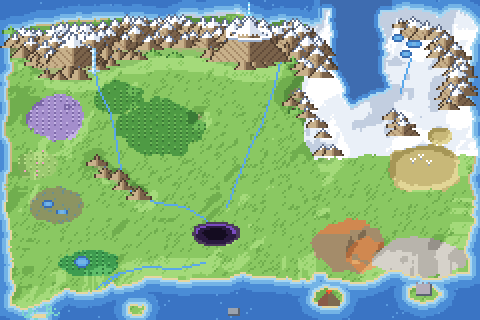
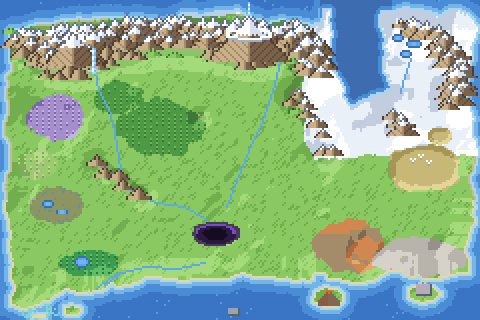
fix: mapa regional con el Islote Lumbre en el sector oeste del Mar del Sur, frente a Caleta (como CAMPANA §1.2 y el mapa de B13)

Changed region(s): [[0.25, 0.9062, 0.3125, 1.0], [0.125, 0.9375, 0.1875, 1.0]]

diff --git a/game/src/ui/logic/regionMapData.js b/game/src/ui/logic/regionMapData.js
@@ -49,7 +49,7 @@ const TERRAIN = [
   '~..fffff..............:::::::~', // 16 Ruta 14 · Ruta 7 · Ciudad Estrato · Dunas de Ceniza
   '~........~~...~~~~.~~..~~~:~~~', // 17 Ruta 15 · Ciudad Nexo · costa sur
   '~...~~~~~~~~~~~~~~~~v~~~~~i~~~', // 18 Caleta Sonda · Mar del Sur · Volcán Tizón · Bastión Axis
-  '~~r~~~~~i~~~~~i~~~~~~~~~~~~~~~', // 19 Arrecife del Eco (P7) · Islote Lumbre · Estación Talasa
+  '~~r~i~~~~~~~~~i~~~~~~~~~~~~~~~', // 19 Arrecife del Eco (P7) · Islote Lumbre · Estación Talasa
 ];
 
 const P = (id, name, kind, x, y, links, extra = {}) => ({ id, name, kind, x, y, links, ...extra });
@@ -127,7 +127,8 @@ const RAW_PLACES = [
     [['ciudad_nexo', null], ['caleta_sonda', null], ['ruta_15', null], ['islote_lumbre', null], ['estacion_talasa', null],
       ['volcan_tizon', null], ['bastion_axis', null]],
     { desc: 'Un mar en tres sectores, con su fondo (Buceo)' }),
-  P('islote_lumbre', 'Islote Lumbre', 'zone', 8, 19, [['mar_del_sur', null]], { desc: 'Islote de cerezos y farolillos' }),
+  // Sector oeste del Mar del Sur, frente a Caleta Sonda (CAMPANA §1.2 y el mapa `mar_del_sur` de B13): al oeste de Nexo.
+  P('islote_lumbre', 'Islote Lumbre', 'zone', 4, 19, [['mar_del_sur', null]], { desc: 'Islote de cerezos y farolillos' }),
   P('estacion_talasa', 'Estación Talasa', 'zone', 14, 19, [['mar_del_sur', null]], { desc: 'Plataforma de investigación' }),
   P('volcan_tizon', 'Volcán Tizón', 'zone', 20, 18, [['mar_del_sur', null]], { desc: 'Cono volcánico con el caserío de la forja' }),
   P('arrecife_eco', 'Arrecife del Eco', 'sea', 2, 19, [['caleta_sonda', null]], { pillar: 7, desc: 'Arrecife y Ruinas de Antea' }),
